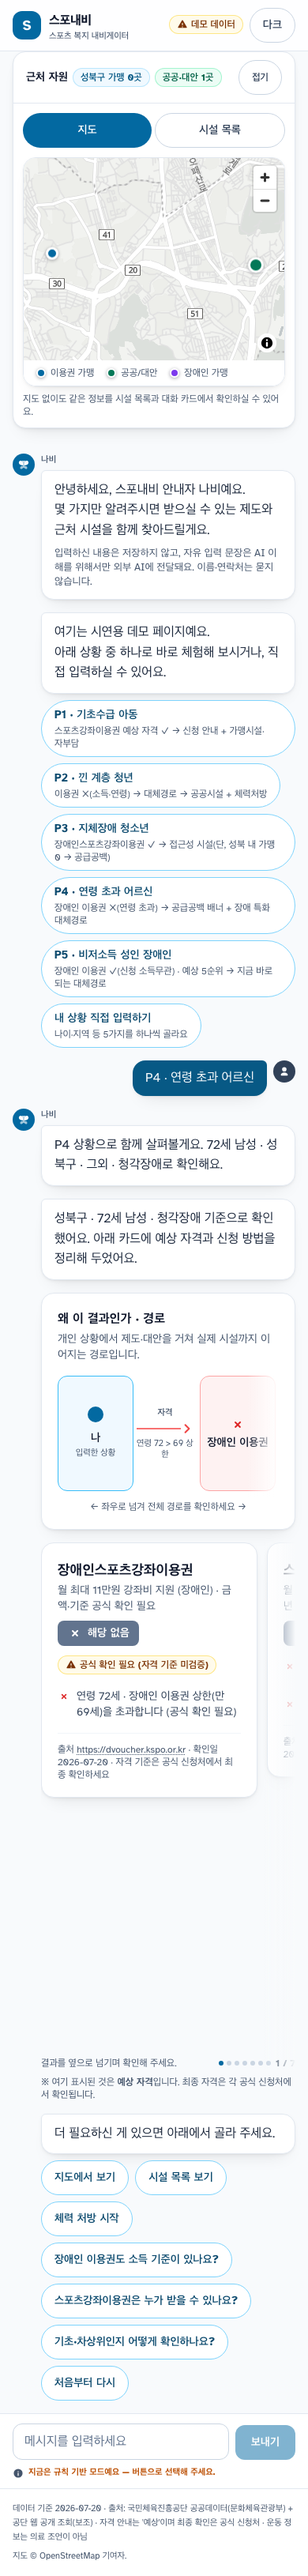
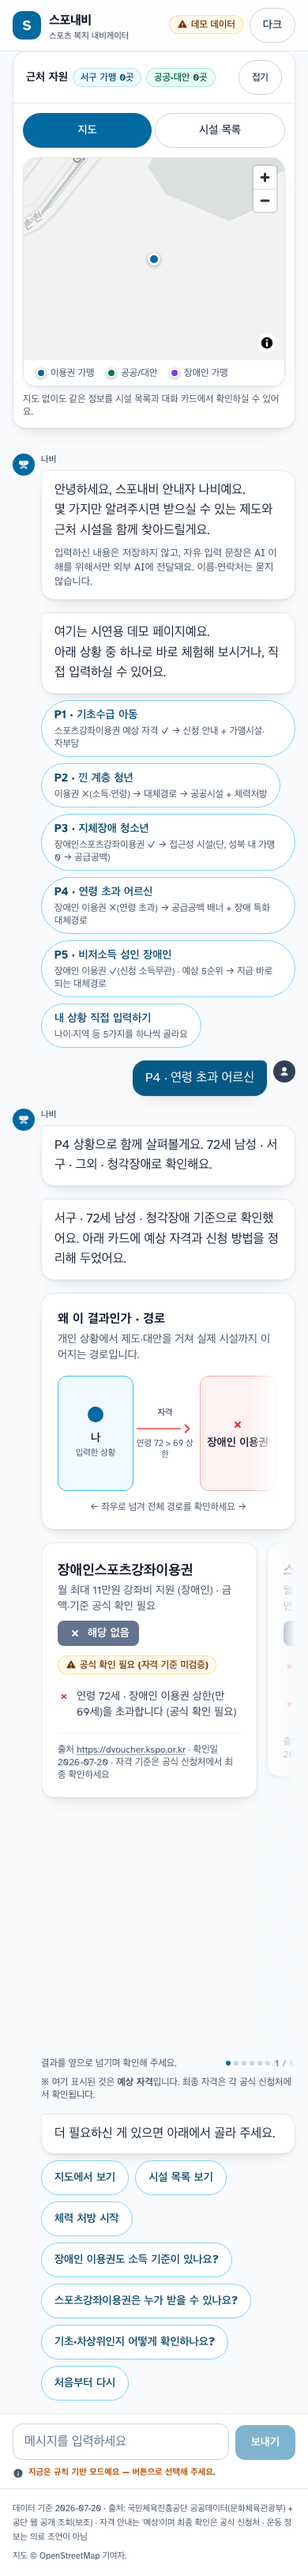
웹도 현행 시도 코드로 — 구 시도명 별칭 흡수 + P4 인천 서구 목 정합 (e2e 67→69 녹색)
/api/meta/sigungu 가 전국을 주기 시작하면서 시도 칩이 서울 하나가 아니게 됐다. 클라 로컬
매칭 표(SIDO_ALIASES)에 폐지 접두(29·46·42·45)가 남아 있으면 "광주 북구"가 사라진 코드로
가고, 그 코드엔 장애인 가맹이 0건이라 거짓 공급공백 배너가 뜬다.

- policy.ts: 폐지 시도 접두 제거, 구 시도명("광주광역시"·"광주"·"전라남도"·"전남")을 12 의,
  ("강원도")를 51 의, ("전라북도")를 52 의 별칭으로 흡수. 칩 라벨(sidoLabel)은 짧은 통칭 유지.
  자유입력 매칭은 배열 순서 대신 **긴 별칭 우선** 목록으로 — 서버 chat._SIDO_ALIASES 와 같은 규칙.
- mocks: fixtures 표본의 구코드 29140 → 12240(+12300 북구), P4 요청을 인천 서구(28260)로.
  P4 응답은 실 DB 실측 형태에 맞춘다 — 반경 3km 내 접근성 공공시설 0 → alternatives 빈 배열·
  시설 홉 없는 경로, 커버리지는 서울 15구 실측분뿐이라 coverage=null.
- e2e: P4 는 배너·최근접·대체경로 3개를 검증하고 "수급률" 줄은 **없어야 한다**로 뒤집는다
  (없는 통계를 만들지 않는다). 수급률 검증은 데이터가 있는 P3(성북구)로 옮겨 신설.
  region ④-b 신설: 컴포저에 "광주 북구" → 12300 확정 후 판정까지 완주.

Claude-Session: https://claude.ai/code/session_01BRWczdJ4b37rdn7GR33Apv

diff --git a/web/src/chat/policy.ts b/web/src/chat/policy.ts
@@ -103,24 +103,26 @@ export const SEX_LABEL: Record<Sex, string> = { F: '여성', M: '남성' }
 //
 // ★ 표는 "코드 → 이름"일 뿐이고, 실제로 어떤 시도를 보여줄지는 오직 데이터가 정한다 —
 //   getSigungu() 결과에 존재하는 접두 2자리만 렌더한다(하드코딩 전수 렌더 금지).
-//   어휘는 서버 chat.py SIDO_NAMES 와 같은 계열이며, 칩 라벨은 그중 가장 짧은 통칭을 쓴다.
+//   어휘는 서버 chat.py SIDO_NAMES(= server/app/region.py) 와 같은 계열이며,
+//   칩 라벨은 배열의 **마지막** 원소(가장 짧은 통칭)를 쓴다.
 //   별칭 배열은 컴포저 자유입력의 로컬 매칭("인천 서구")에 쓰인다.
+//
+// ★ 2026-07-01 개편: 광주(29)+전남(46) → 전남광주통합특별시(12), 강원(42)→51, 전북(45)→52.
+//   구 시도 접두는 데이터에서 사라졌으므로 표에서도 지운다. 대신 구 시도명("광주"·"전남"·
+//   "강원도"·"전라북도")은 현행 코드의 별칭으로 흡수한다 — 사용자가 개편 전 이름으로 써도
+//   "광주 북구" → 12300 으로 가야 하기 때문(구코드로 가면 가맹 0곳 거짓 배너).
 export const SIDO_ALIASES: [prefix: string, names: string[]][] = [
   ['11', ['서울특별시', '서울시', '서울']],
-  ['12', ['전남광주통합특별시', '광주전남', '전남광주']],
+  ['12', ['전남광주통합특별시', '광주광역시', '전라남도', '광주시', '광주', '전남', '광주전남', '전남광주']],
   ['26', ['부산광역시', '부산시', '부산']],
   ['27', ['대구광역시', '대구시', '대구']],
   ['28', ['인천광역시', '인천시', '인천']],
-  ['29', ['광주광역시', '광주시', '광주']],
   ['30', ['대전광역시', '대전시', '대전']],
   ['31', ['울산광역시', '울산시', '울산']],
   ['36', ['세종특별자치시', '세종시', '세종']],
   ['41', ['경기도', '경기']],
-  ['42', ['강원도', '강원']],
   ['43', ['충청북도', '충북']],
   ['44', ['충청남도', '충남']],
-  ['45', ['전라북도', '전북']],
-  ['46', ['전라남도', '전남']],
   ['47', ['경상북도', '경북']],
   ['48', ['경상남도', '경남']],
   ['50', ['제주특별자치도', '제주도', '제주']],
@@ -131,6 +133,12 @@ export const SIDO_ALIASES: [prefix: string, names: string[]][] = [
 const SIDO_SHORT: Record<string, string> = Object.fromEntries(
   SIDO_ALIASES.map(([cd, names]) => [cd, names[names.length - 1]]),
 )
+
+// 자유입력 매칭용 평탄화 목록 — **긴 별칭 우선**(서버 chat._SIDO_ALIASES 와 같은 규칙).
+// 배열 순서와 무관하게 '광주광역시'가 '광주'보다 먼저 걸리도록.
+const SIDO_ALIAS_BY_LEN: [name: string, cd: string][] = SIDO_ALIASES.flatMap(
+  ([cd, names]) => names.map((n) => [n, cd] as [string, string]),
+).sort((a, b) => b[0].length - a[0].length)
 
 export function sidoCdOf(sigunguCd: string): string {
   return (sigunguCd || '').slice(0, 2)
@@ -347,8 +355,8 @@ function norm(s: string): string {
 export function matchSido(raw: string): string | null {
   const q = norm(raw)
   if (q === '') return null
-  for (const [cd, names] of SIDO_ALIASES) {
-    if (names.some((n) => n === q)) return cd
+  for (const [name, cd] of SIDO_ALIAS_BY_LEN) {
+    if (name === q) return cd
   }
   return null
 }
@@ -358,15 +366,15 @@ export function matchSigungu(list: Sigungu[], raw: string): Sigungu[] {
   if (q === '') return []
 
   // "인천서구"처럼 시도가 앞에 붙어 있으면 그 시도로 좁힌 뒤 나머지로 찾는다.
+  // 구 시도명("광주 북구")도 현행 시도(12)로 좁혀진다 — SIDO_ALIASES 가 흡수한 별칭.
   let pool = list
   let needle = q
-  for (const [cd, names] of SIDO_ALIASES) {
-    const hit = names.find((n) => q.startsWith(n) && q.length > n.length)
-    if (!hit) continue
+  for (const [name, cd] of SIDO_ALIAS_BY_LEN) {
+    if (!(q.startsWith(name) && q.length > name.length)) continue
     const scoped = list.filter((s) => sidoCdOf(s.cd) === cd)
     if (scoped.length === 0) continue
     pool = scoped
-    needle = q.slice(hit.length)
+    needle = q.slice(name.length)
     break
   }
   if (needle === '') return pool

diff --git a/web/src/mocks/personas.ts b/web/src/mocks/personas.ts
@@ -168,11 +168,13 @@ export const PERSONA_REQUESTS: DemoPersona[] = [
     summary: '장애인 이용권 ✗(연령 초과) → 공급공백 배너 + 장애 특화 대체경로',
     age: 72,
     sex: 'M',
-    sigungu_cd: '11290',
-    sigungu_nm: '성북구',
+    // PRD ★FR-P4: 데모 지역 = 인천 서구(28260). 실 DB 기준 이 구의 dvoucher 가맹은 0건이고
+    // 커버리지(수급률)는 서울 15구만 실측이라 coverage=null 이다 — 목도 그 형태를 따른다.
+    sigungu_cd: '28260',
+    sigungu_nm: '서구',
     income_class: '그외',
     disability: { has: true, type: '청각' },
-    location: { lat: 37.6057, lon: 127.017 },
+    location: { lat: 37.5459, lon: 126.6568 },
   },
   {
     id: 'P5',
@@ -381,7 +383,7 @@ const P3: AssessResponse = {
   },
 }
 
-// ---------- P4: dvoucher ✗(연령 초과) → 공급공백 + 장애 특화 대체경로 ----------
+// ---------- P4: 인천 서구 · dvoucher ✗(연령 초과) → 공급공백 + 장애 특화 대체경로 ----------
 const P4: AssessResponse = {
   eligibility: [
     {
@@ -420,27 +422,27 @@ const P4: AssessResponse = {
       verified: true,
     },
   ],
+  // 인천 서구(28260) 실 DB 기준: 반경 3km 안에 접근성 지원 공공시설이 잡히지 않아
+  // 경로는 제도 대안까지만 이어진다(시설 홉 없음). 없는 시설을 만들어 붙이지 않는다(P-1).
   path: [
     { from: 'person', to: 'dvoucher', edge: '자격', result: 'fail', label: '연령 72 > 69 상한' },
     { from: 'dvoucher', to: 'public_program', edge: '대체경로', result: 'ok', label: '접근성 지원 공공프로그램', curated: '검증 대기' },
-    { from: 'public_program', to: 'facility:P01', edge: '적합·접근', result: 'ok', label: '성북구민체육센터(접근성 지원) · 1.6km' },
   ],
   alt_edges: P4_ALT_EDGES,
   nearby: {
     voucher_facilities: [],
-    alternatives: [
-      { id: 'P01', name: '성북구민체육센터', type: '공공체육시설(접근성 지원)', sports: ['요가', '수영', '헬스', '에어로빅'], lat: 37.6046, lon: 127.0413, coord_source: 'api', dist_km: 1.6, sigungu_nm: '성북구', note: '접근성 지원 · 실버 수중걷기 무료교실 · 저가 프로그램', disability_support: true, fee_month: 0, source: 'public', addr: '서울 성북구 화랑로 189' },
-    ],
+    alternatives: [],
   },
   supply_gap: {
     radius_km: 3,
     voucher_count: 0,
     voucher_scope: 'sigungu',
-    sigungu_nm: '성북구',
-    alt_count: 1,
-    nearest: { name: '서울장애인체육관', coord_source: 'centroid', dist_km: null, sigungu_nm: '강북구' },
-    message: '성북구에 장애인스포츠강좌이용권 가맹시설이 없습니다',
-    coverage: COVERAGE_SB_NEARPOOR,
+    sigungu_nm: '서구',
+    alt_count: 0,
+    nearest: { name: '153합기도', coord_source: 'centroid', dist_km: null, sigungu_nm: '서해구' },
+    message: '서구에 장애인스포츠강좌이용권 가맹시설이 없습니다',
+    // 커버리지(수급률)는 서울 15구 실측분뿐 — 인천은 데이터가 없어 null 이다.
+    coverage: null,
   },
 }
 

diff --git a/web/e2e/region.spec.ts b/web/e2e/region.spec.ts
@@ -118,6 +118,21 @@ test('④ 컴포저에 "서구" — 동명 지역은 후보 칩으로 되묻고,
   await expect(stream(page).getByText('지역: 인천 서구')).toBeVisible()
 })
 
+test('④-b 개편 전 시도명("광주 북구")도 현행 코드(12300)로 확정된다', async ({ page }) => {
+  // 2026-07-01 광주(29)+전남(46) → 전남광주통합특별시(12). 사용자는 여전히 "광주"라고 쓴다.
+  // 구 코드로 새면 그 코드엔 장애인 가맹이 0건이라 거짓 공급공백 배너가 뜬다(WP1 회귀 원점).
+  await openRegionQuestion(page)
+  await send(page, '광주 북구')
+
+  await expect(
+    stream(page).getByTestId('question-region_sido').getByTestId('chip-answered'),
+  ).toContainText('북구 선택함')
+  await page.getByTestId('chip-income-기초생활수급').click()
+  await page.getByTestId('chip-dis-no').click()
+  await expect(stream(page).getByTestId('assess-cards')).toBeVisible()
+  await expect(stream(page).getByText(/북구/).first()).toBeVisible()
+})
+
 test('⑤ 목록에 없는 지역명은 지어내지 않고 다시 묻는다', async ({ page }) => {
   await openRegionQuestion(page)
   await send(page, '없는동네시')

diff --git a/web/src/mocks/fixtures.ts b/web/src/mocks/fixtures.ts
@@ -138,7 +138,9 @@ export const SIGUNGU: Sigungu[] = [
   { cd: '26140', nm: '서구', lat: 35.0979, lon: 129.0244 },
   { cd: '27170', nm: '서구', lat: 35.8718, lon: 128.5593 },
   { cd: '28260', nm: '서구', lat: 37.5455, lon: 126.6759 },
-  { cd: '29140', nm: '서구', lat: 35.1518, lon: 126.8902 },
+  // 전남광주통합특별시(12) — 2026-07-01 광주(29)+전남(46) 통합. 구 코드는 쓰지 않는다.
+  { cd: '12240', nm: '서구', lat: 35.1518, lon: 126.8902 },
+  { cd: '12300', nm: '북구', lat: 35.1988, lon: 126.9027 },
   { cd: '36110', nm: '세종특별자치시', lat: 36.4801, lon: 127.289 },
   { cd: '41111', nm: '수원시 장안구', lat: 37.3049, lon: 127.0107 },
   { cd: '41135', nm: '성남시 분당구', lat: 37.3826, lon: 127.1189 },
